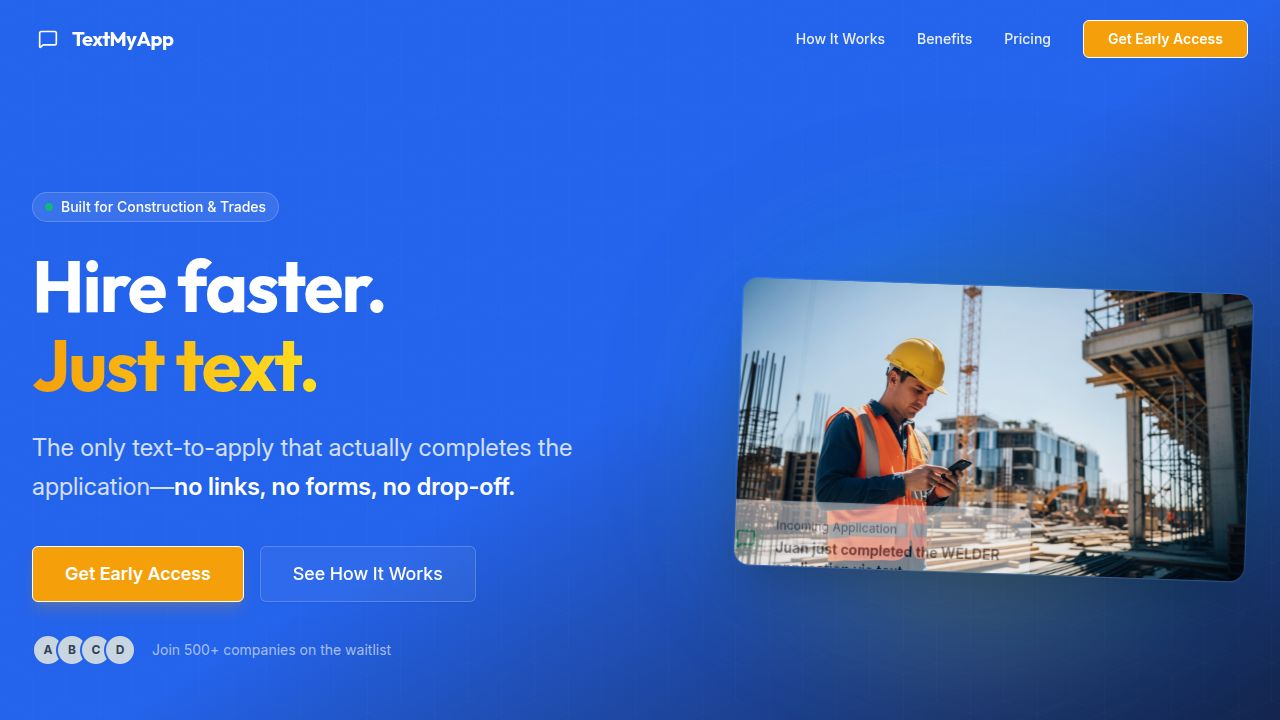
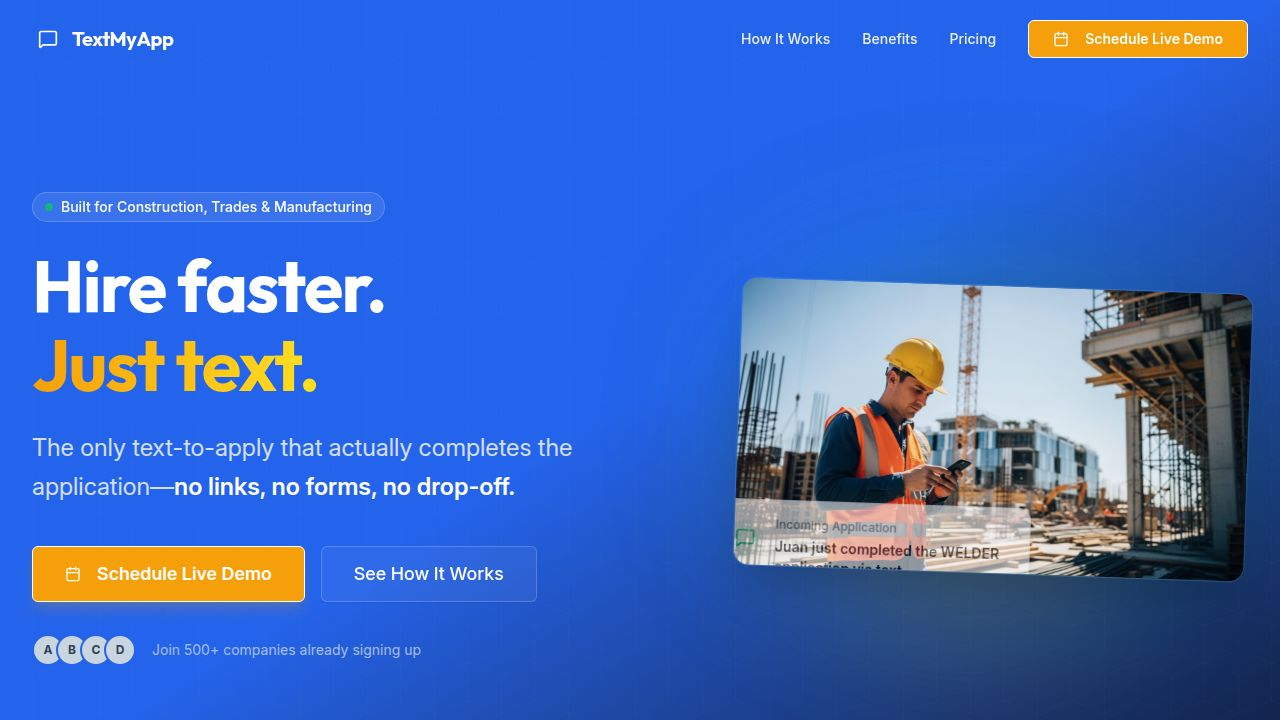
Update call-to-action buttons to schedule a demo
Refactors multiple call-to-action buttons in the Home page to display "Schedule Live Demo" and link to a Calendly URL, replacing the previous "Sign-up Now" functionality.

Replit-Commit-Author: Agent
Replit-Commit-Session-Id: d338a948-2b9f-428a-a02a-bb9f12ab59ff
Replit-Commit-Checkpoint-Type: full_checkpoint
Replit-Commit-Event-Id: c7540d28-31be-4f87-81c1-6994797454ed
Replit-Commit-Screenshot-Url: https://storage.googleapis.com/screenshot-production-us-central1/914ad8a1-a8b9-4008-b826-9029de5e4902/d338a948-2b9f-428a-a02a-bb9f12ab59ff/ejqUizT
Replit-Helium-Checkpoint-Created: true

diff --git a/client/src/pages/Home.tsx b/client/src/pages/Home.tsx
@@ -11,12 +11,15 @@ import {
   Zap, 
   CheckCircle2,
   Menu,
-  X
+  X,
+  Calendar
 } from "lucide-react";
 import { WaitlistForm } from "@/components/WaitlistForm";
 
 // Using the generated image
 import heroWorkerImage from "@/assets/images/hero-worker.png";
+
+const CALENDLY_URL = "https://calendly.com/darcie-orderandoperations/textmyapp-product-demo";
 
 export default function Home() {
   const [isScrolled, setIsScrolled] = useState(false);
@@ -65,10 +68,13 @@ export default function Home() {
             
             <Button 
               className="bg-accent hover:bg-accent/90 text-accent-foreground font-semibold px-6" 
-              onClick={() => scrollToSection('signup-section')}
+              asChild
               data-testid="button-nav-cta"
             >
-              Sign-up Now
+              <a href={CALENDLY_URL} target="_blank" rel="noopener noreferrer">
+                <Calendar className="w-4 h-4 mr-2" />
+                Schedule Live Demo
+              </a>
             </Button>
           </nav>
 
@@ -94,9 +100,12 @@ export default function Home() {
             <button onClick={() => scrollToSection('pricing')} className="text-left text-foreground/80 font-medium py-2">Pricing</button>
             <Button 
               className="bg-accent hover:bg-accent/90 text-accent-foreground w-full font-semibold mt-2"
-              onClick={() => scrollToSection('signup-section')}
+              asChild
             >
-              Sign-up Now
+              <a href={CALENDLY_URL} target="_blank" rel="noopener noreferrer">
+                <Calendar className="w-4 h-4 mr-2" />
+                Schedule Live Demo
+              </a>
             </Button>
           </div>
         )}
@@ -132,10 +141,13 @@ export default function Home() {
                 <Button 
                   size="lg" 
                   className="bg-accent hover:bg-accent/90 text-accent-foreground text-lg h-14 px-8 font-semibold shadow-lg shadow-accent/20" 
-                  onClick={() => scrollToSection('signup-section')}
+                  asChild
                   data-testid="button-hero-primary"
                 >
-                  Sign-up Now
+                  <a href={CALENDLY_URL} target="_blank" rel="noopener noreferrer">
+                    <Calendar className="w-5 h-5 mr-2" />
+                    Schedule Live Demo
+                  </a>
                 </Button>
                 
                 <Button 
@@ -474,9 +486,11 @@ export default function Home() {
                   variant="outline" 
                   className="w-full" 
                   data-testid="button-pricing-starter"
-                  onClick={() => scrollToSection('signup-section')}
+                  asChild
                 >
-                  Sign-up Now
+                  <a href={CALENDLY_URL} target="_blank" rel="noopener noreferrer">
+                    Schedule Live Demo
+                  </a>
                 </Button>
               </CardContent>
             </Card>
@@ -520,9 +534,11 @@ export default function Home() {
                 <Button 
                   className="w-full bg-accent hover:bg-accent/90 text-accent-foreground font-bold" 
                   data-testid="button-pricing-pro"
-                  onClick={() => scrollToSection('signup-section')}
+                  asChild
                 >
-                  Sign-up Now
+                  <a href={CALENDLY_URL} target="_blank" rel="noopener noreferrer">
+                    Schedule Live Demo
+                  </a>
                 </Button>
               </CardContent>
             </Card>
@@ -564,9 +580,11 @@ export default function Home() {
                   variant="outline" 
                   className="w-full" 
                   data-testid="button-pricing-business"
-                  onClick={() => scrollToSection('signup-section')}
+                  asChild
                 >
-                  Contact Sales
+                  <a href={CALENDLY_URL} target="_blank" rel="noopener noreferrer">
+                    Schedule Live Demo
+                  </a>
                 </Button>
               </CardContent>
             </Card>
@@ -579,13 +597,27 @@ export default function Home() {
         <div className="absolute inset-0 bg-[url('https://www.transparenttextures.com/patterns/cubes.png')] opacity-10 z-0"></div>
         <div className="container mx-auto px-4 relative z-10 flex flex-col items-center text-center">
           <h2 className="text-4xl md:text-5xl font-bold font-heading text-white mb-6">Stop losing candidates to clunky forms.</h2>
-          <p className="text-xl text-white/80 max-w-2xl mx-auto mb-12">
-            Sign up today to get 25% off pricing and start filling your open roles faster.
+          <p className="text-xl text-white/80 max-w-2xl mx-auto mb-8">
+            See TextMyApp in action. Schedule a personalized demo and start filling your open roles faster.
           </p>
           
-          <div className="bg-white rounded-2xl shadow-2xl p-8 max-w-md w-full text-left">
-            <h3 className="text-2xl font-bold font-heading text-foreground mb-6 text-center">Sign-up Now</h3>
-            <WaitlistForm />
+          <Button
+            size="lg"
+            className="bg-accent hover:bg-accent/90 text-accent-foreground text-lg h-14 px-10 font-bold shadow-xl mb-12"
+            asChild
+            data-testid="button-bottom-cta"
+          >
+            <a href={CALENDLY_URL} target="_blank" rel="noopener noreferrer">
+              <Calendar className="w-5 h-5 mr-2" />
+              Schedule Live Demo
+            </a>
+          </Button>
+
+          <div className="w-full max-w-md">
+            <p className="text-white/60 text-sm mb-4">Or sign up to join our waitlist:</p>
+            <div className="bg-white rounded-2xl shadow-2xl p-8 text-left">
+              <WaitlistForm />
+            </div>
           </div>
         </div>
       </section>
